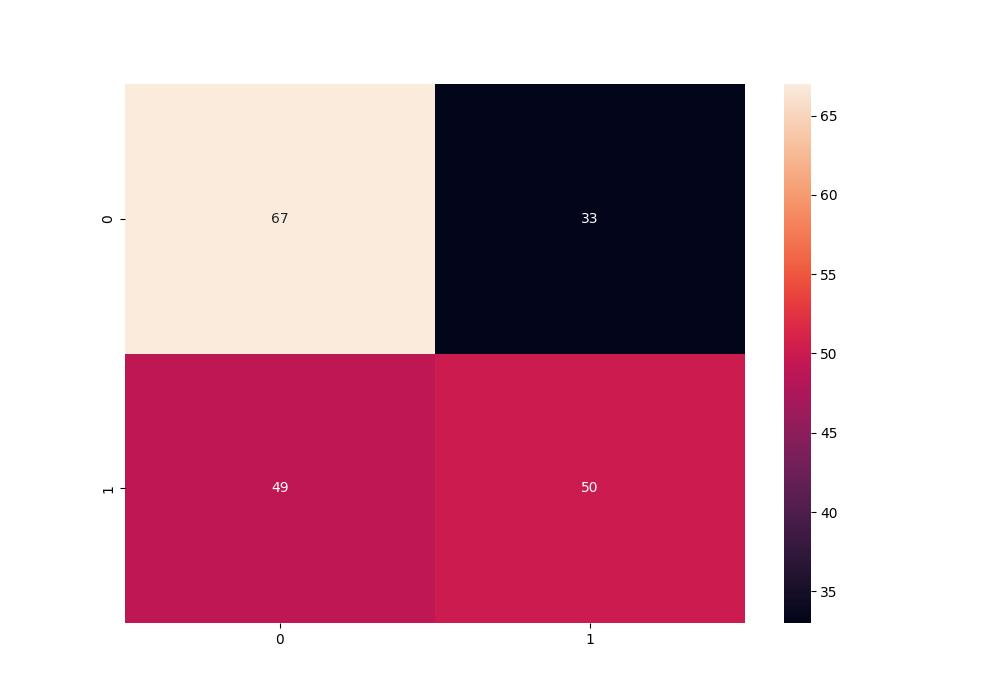
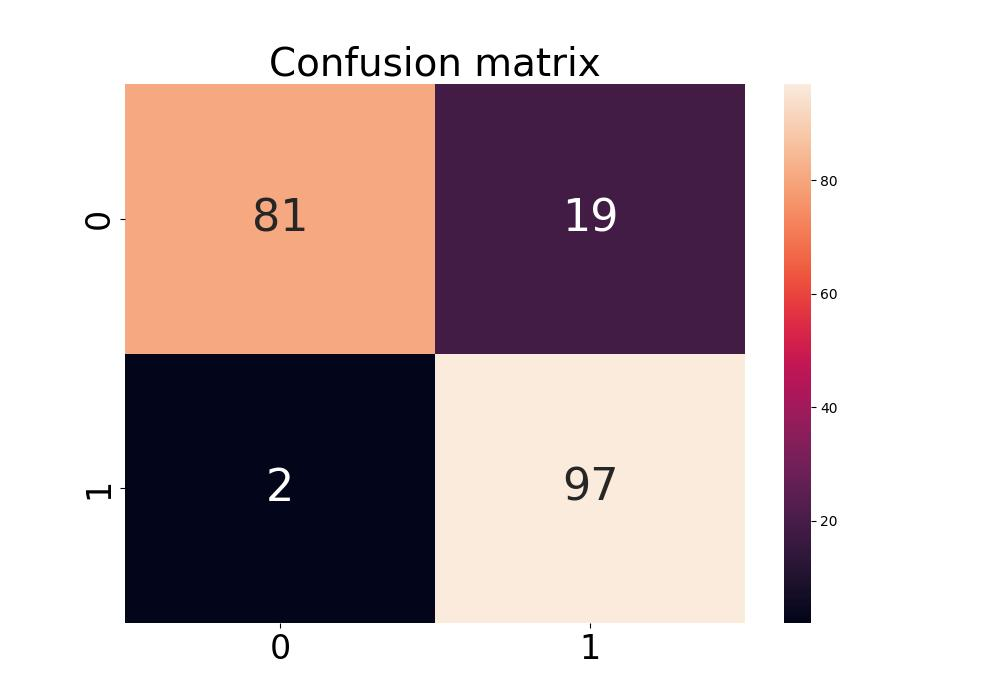
Feat: Set a smaller learning rate to get a better accuracy

diff --git a/utils/network.py b/utils/network.py
@@ -1,3 +1,9 @@
+# ----------------------------------------------------------------------------
+# Filename    : network.py
+# Created By  : Ting-Wei, Zhang (ghnmqdtg)
+# Created Date: 2022/12/23
+# version ='1.0'
+# ----------------------------------------------------------------------------
 import random
 import numpy as np
 import matplotlib.pyplot as plt
@@ -183,15 +189,15 @@ def train(network, loss, loss_prime, x_train, y_train, epochs=1000, lr=0.01, opt
     plot_confusion_matrix(confusion_matrix)
     # Plot and save the training history
     fig, axs = plt.subplots(1, 2, figsize=(12, 6))
-    fig.suptitle('Training Statistics', fontsize=20)
+    fig.suptitle('Training History', fontsize=20)
     # Loss statistics
     axs[0].set_title("Loss")
     axs[0].plot(history["loss"])
-    axs[0].set(xlabel="Epoch")
+    axs[0].set(xlabel="Epoch", ylabel="MSE")
     # Accuracy statistics
     axs[1].set_title("Accuracy")
     axs[1].plot(history["acc"])
-    axs[1].set(xlabel="Epoch")
+    axs[1].set(xlabel="Epoch", ylabel="Accuracy")
 
     plt.savefig(f'{config.DST_FOLDER}/history.jpg')
 

diff --git a/main.py b/main.py
@@ -1,3 +1,9 @@
+# ----------------------------------------------------------------------------
+# Filename    : main.py
+# Created By  : Ting-Wei, Zhang (ghnmqdtg)
+# Created Date: 2022/12/23
+# version ='1.0'
+# ---------------------------------------------------------------------------
 import numpy as np
 import utils.utils as utils
 from utils.network import train
@@ -28,26 +34,7 @@ def model():
 
 
 if __name__ == '__main__':
-    # 81.4 at 204
-    # np.random.seed(2)
-
-    # 52.2 at 1000
-    # np.random.seed(3)
-
-    # 74.3 at 290
-    # np.random.seed(4)
-
-    # 88.0 at 12
-    # np.random.seed(5)
-
-    # 65.8 at 52
-    # np.random.seed(6)
-
-    # 81.9 at 171
-    # np.random.seed(7)
-
-    # 81.9 at 171
-    np.random.seed(8)
+    np.random.seed(2)
 
     # Create destination directory
     utils.create_folder(config.DST_FOLDER)
@@ -64,7 +51,7 @@ if __name__ == '__main__':
         X,
         Y,
         epochs=1000,
-        lr=0.001,
+        lr=0.0001,
         optimizer="SGD",
         file_paths=dataset_generator.file_paths
     )

diff --git a/utils/utils.py b/utils/utils.py
@@ -108,7 +108,7 @@ def plot_results(file_paths, preds, labels):
     """
 
     fig, axs = plt.subplots(3, 5, figsize=(12, 6))
-    fig.suptitle('Shuffle Testing', fontsize=20)
+    fig.suptitle('Sampling Test', fontsize=20)
 
     for idx, (file_path, pred, true) in enumerate(zip(file_paths, preds, labels)):
         row = idx // 5
@@ -144,5 +144,7 @@ def plot_confusion_matrix(confusion_matrix):
                       columns=[i for i in "01"])
 
     plt.figure(figsize=(10, 7))
-    sn.heatmap(df, annot=True)
+    plt.title('Confusion matrix', fontdict={'fontsize': 28})
+    plt.tick_params(labelsize=24)
+    sn.heatmap(df, annot=True, annot_kws={'size': 32})
     plt.savefig(f'{config.DST_FOLDER}/confusion_matrix.jpg')

diff --git a/utils/activations.py b/utils/activations.py
@@ -1,3 +1,9 @@
+# ----------------------------------------------------------------------------
+# Filename    : activations.py
+# Created By  : Ting-Wei, Zhang (ghnmqdtg)
+# Created Date: 2022/12/23
+# version ='1.0'
+# ----------------------------------------------------------------------------
 import numpy as np
 from utils.layers import Layer
 

diff --git a/utils/optimizer.py b/utils/optimizer.py
@@ -1,3 +1,9 @@
+# ----------------------------------------------------------------------------
+# Filename    : optimizer.py
+# Created By  : Ting-Wei, Zhang (ghnmqdtg)
+# Created Date: 2022/12/23
+# version ='1.0'
+# ----------------------------------------------------------------------------
 class SGD:
     """
     Stochastic Gradient Descent

diff --git a/utils/dataset_generator.py b/utils/dataset_generator.py
@@ -1,3 +1,9 @@
+# ----------------------------------------------------------------------------
+# Filename    : dataset_generator.py
+# Created By  : Ting-Wei, Zhang (ghnmqdtg)
+# Created Date: 2022/12/23
+# version ='1.0'
+# ----------------------------------------------------------------------------
 import os
 import cv2
 import numpy as np

diff --git a/utils/layers.py b/utils/layers.py
@@ -1,3 +1,9 @@
+# ----------------------------------------------------------------------------
+# Filename    : layers.py
+# Created By  : Ting-Wei, Zhang (ghnmqdtg)
+# Created Date: 2022/12/23
+# version ='1.0'
+# ----------------------------------------------------------------------------
 import numpy as np
 from scipy import signal
 

diff --git a/utils/losses.py b/utils/losses.py
@@ -1,3 +1,9 @@
+# ----------------------------------------------------------------------------
+# Filename    : losses.py
+# Created By  : Ting-Wei, Zhang (ghnmqdtg)
+# Created Date: 2022/12/23
+# version ='1.0'
+# ----------------------------------------------------------------------------
 import numpy as np
 
 
